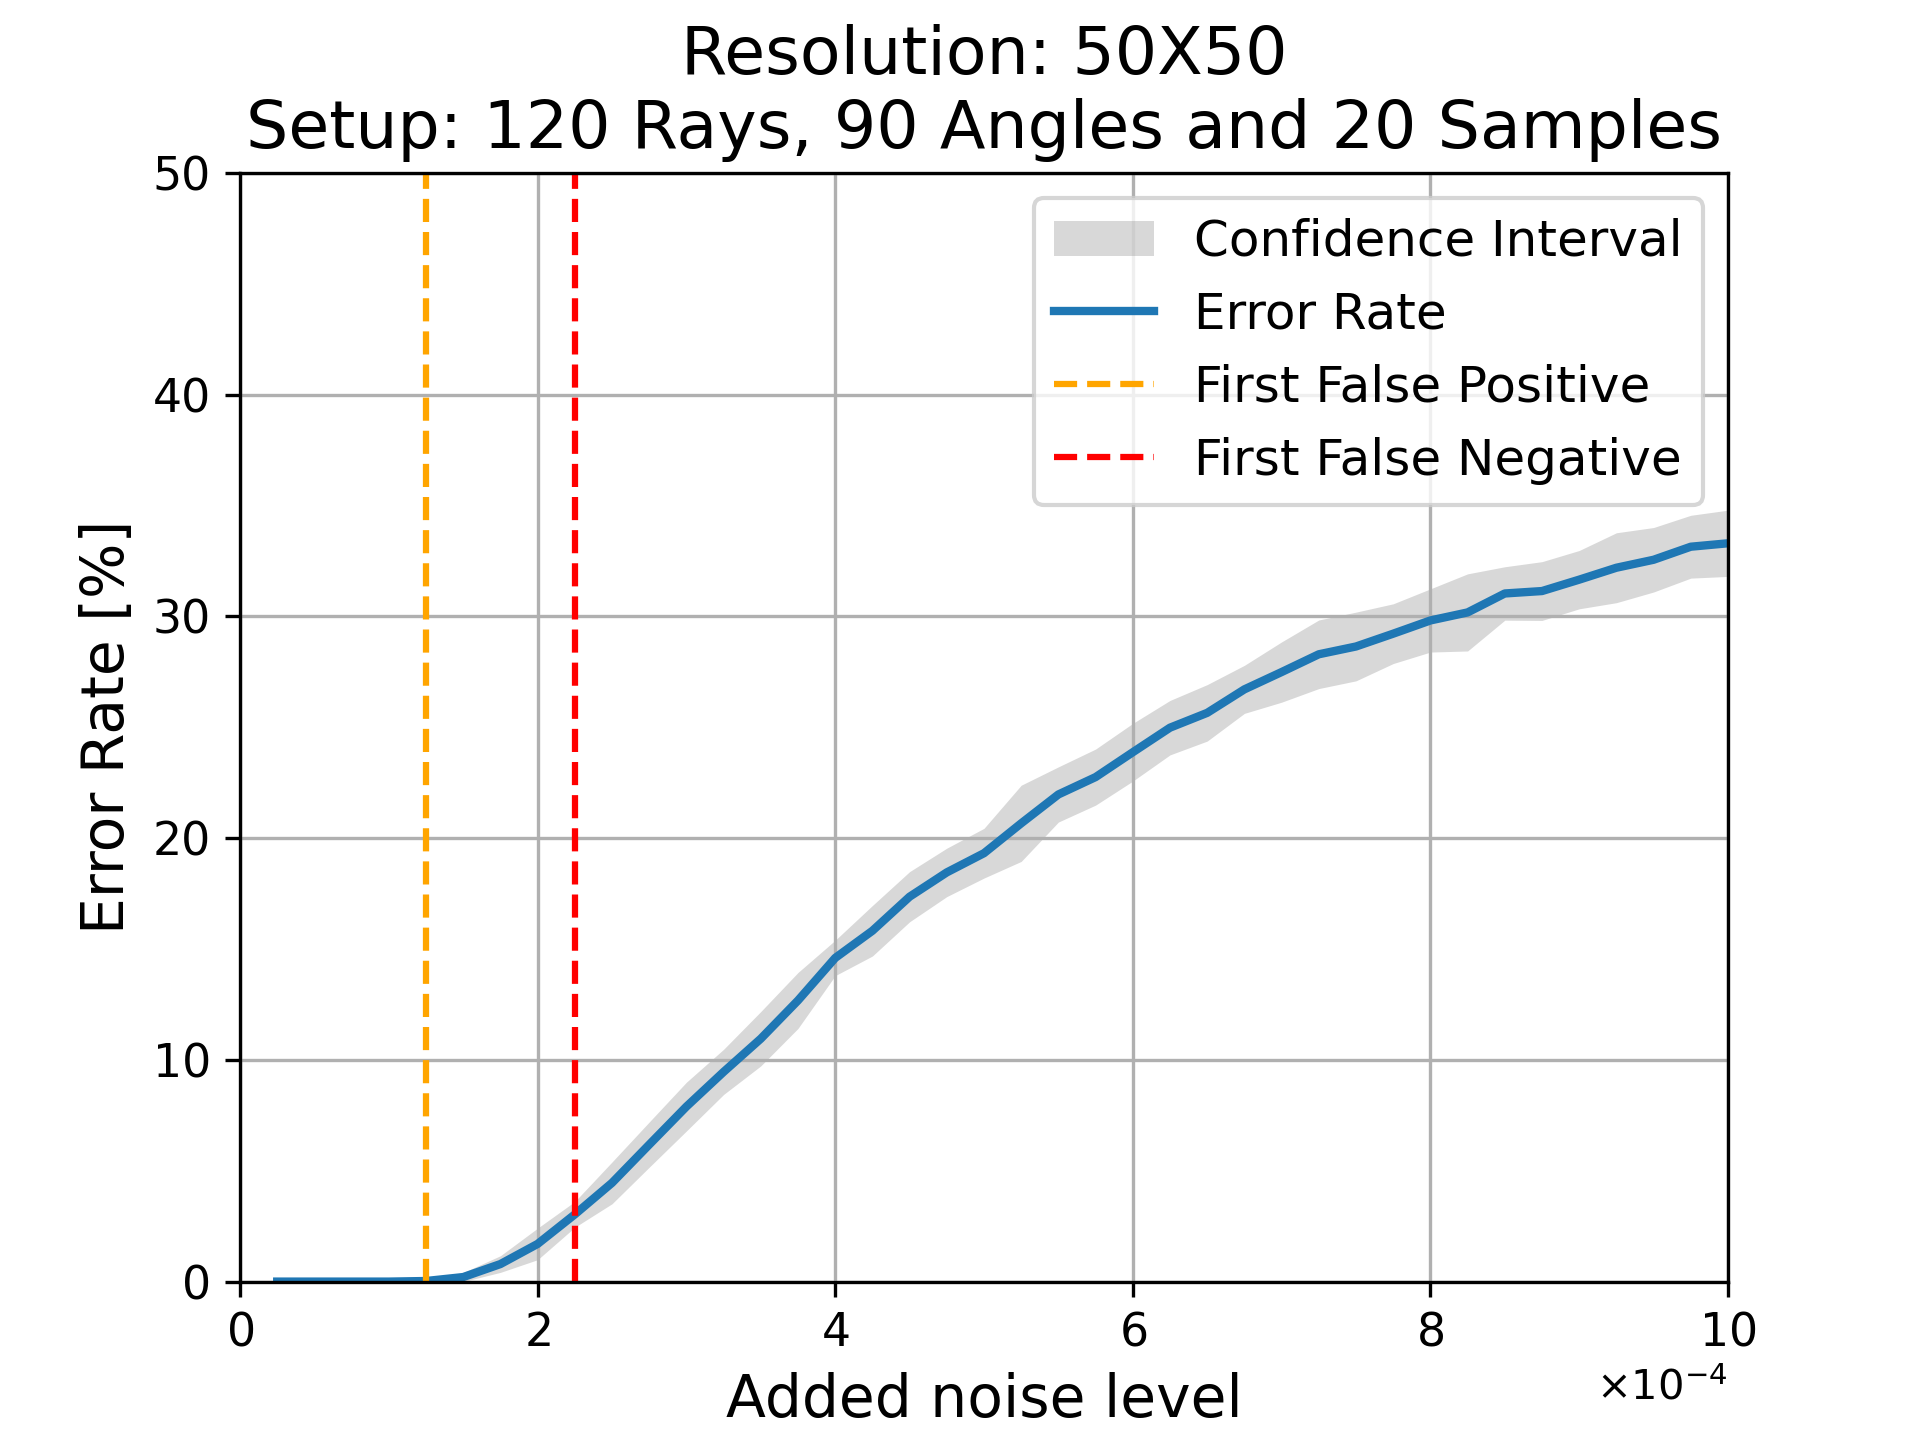
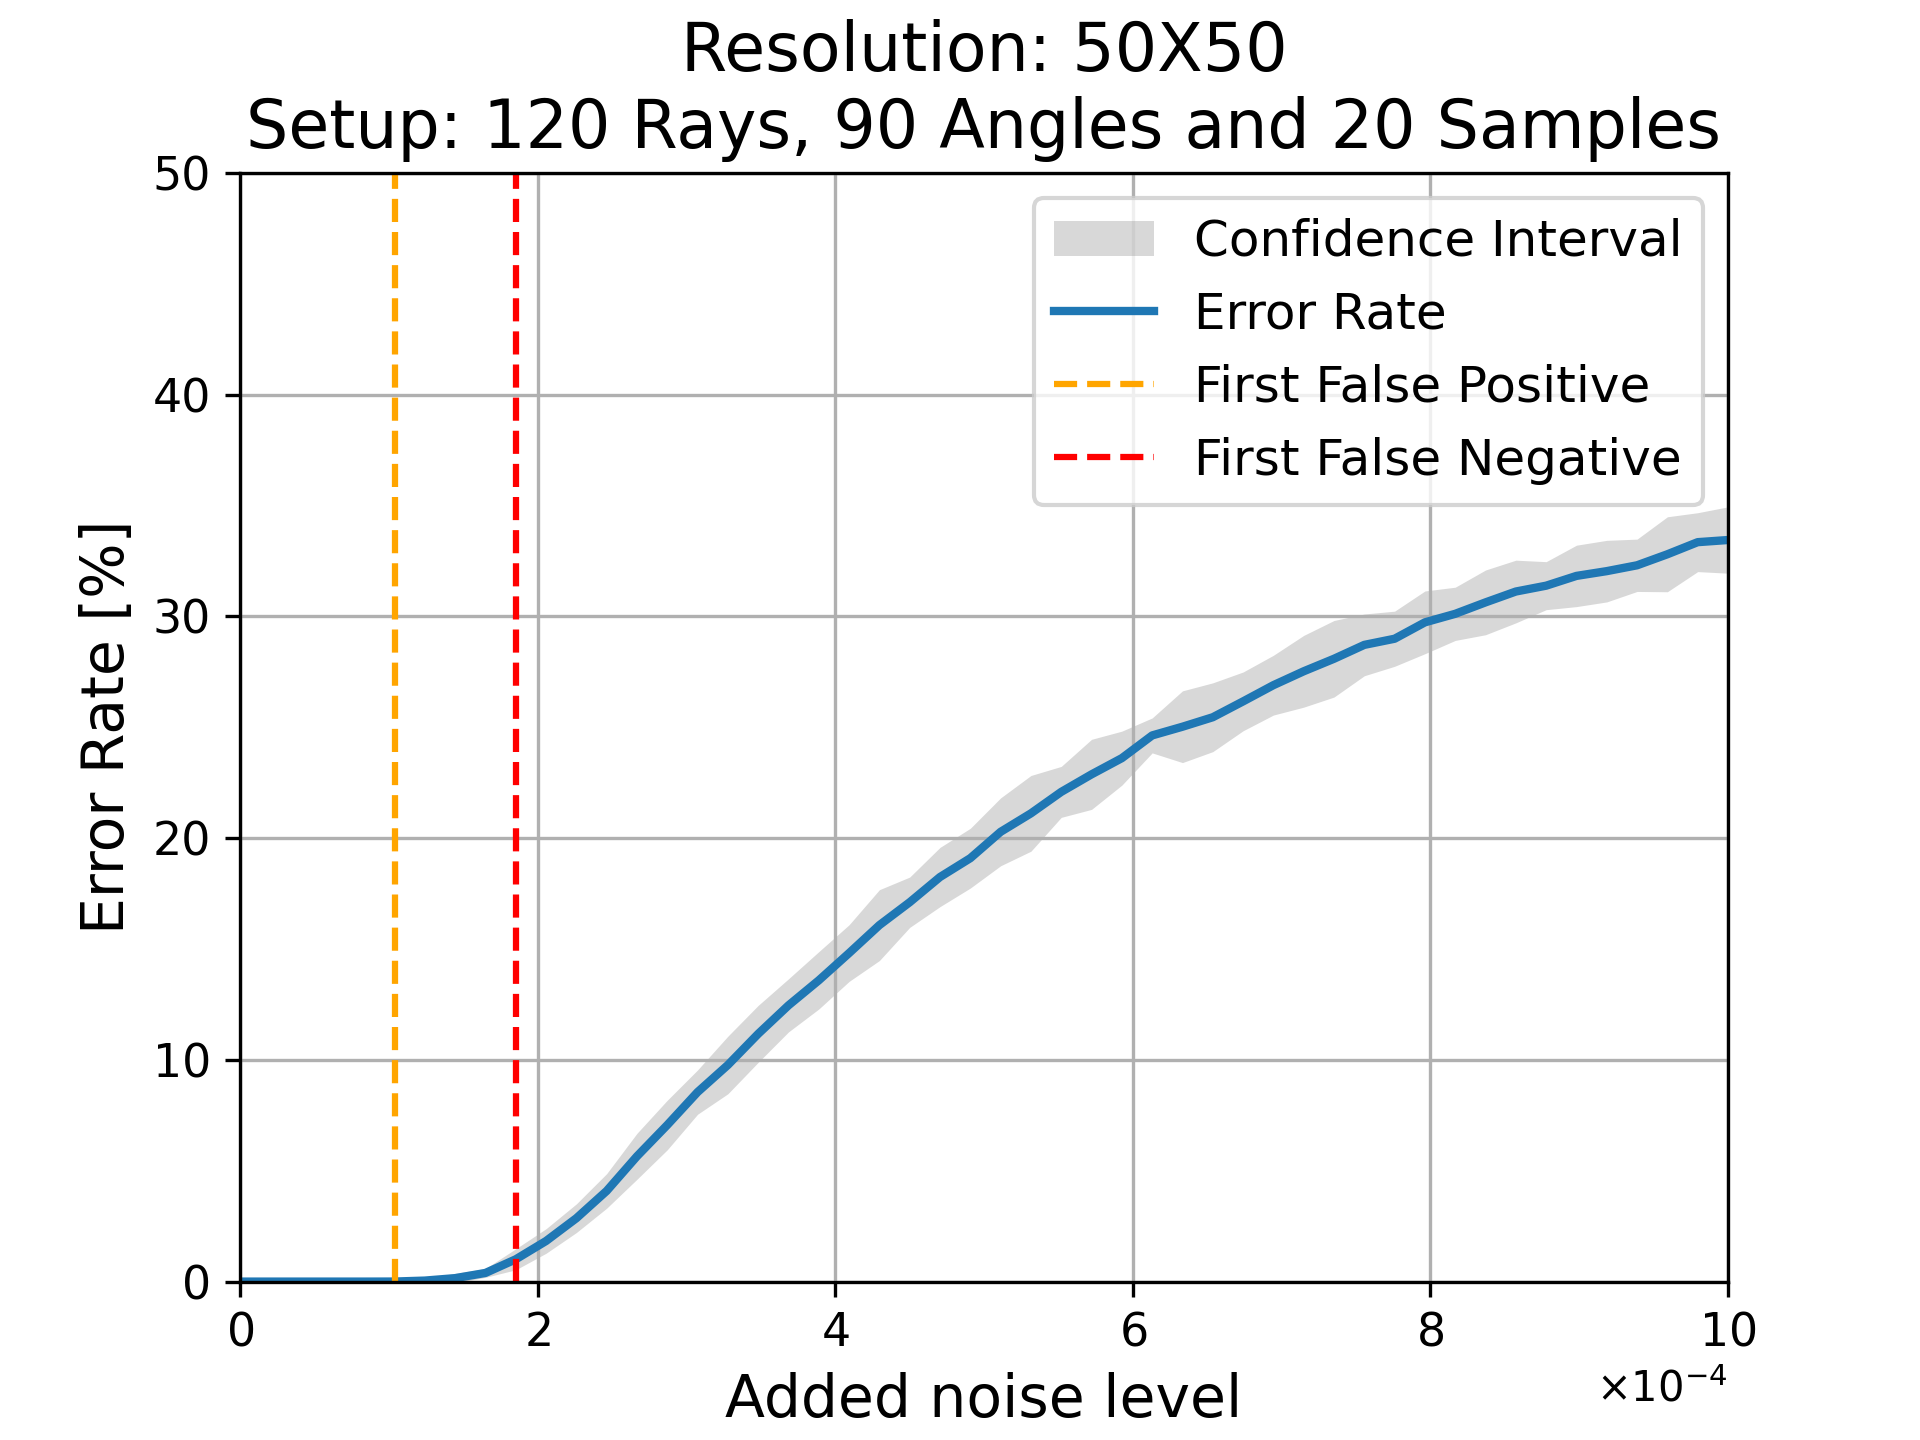
res100 redone

diff --git a/Exam_02526/Morten_func.py b/Exam_02526/Morten_func.py
@@ -10,7 +10,7 @@ import time
 import seaborn as sns
 
 
-def morten_func(angle_no, p, res, confidence = 2, sample_size=20, noise_limit = [1e-4, 1e-3], 
+def morten_func(angle_no, p, res, confidence = 2, sample_size=20, noise_limit = [1e-4, 1e-3], noise_size = 40,
                 class_errors=False):
         
     # Load the image with lead and steel shot
@@ -29,13 +29,13 @@ def morten_func(angle_no, p, res, confidence = 2, sample_size=20, noise_limit = 
     downsized_im = block_reduce(data, block_size=(downsizing, downsizing), func=np.mean) # downsample the image
     x = np.copy(downsized_im.flatten()) # flatten the attenuation constants
 
-    downsized_known_wood = block_reduce(known_wood, block_size=(downsizing, downsizing), func=np.mean) # downsample the image
-    downsized_known_iron = block_reduce(known_iron, block_size=(downsizing, downsizing), func=np.mean) # downsample the image
-    downsized_known_lead = block_reduce(known_lead, block_size=(downsizing, downsizing), func=np.mean) # downsample the image
+    downsized_known_wood = block_reduce(known_wood, block_size=downsizing, func=np.min).astype(int) # downsample the image
+    downsized_known_iron = block_reduce(known_iron, block_size=downsizing, func=np.max).astype(int) # downsample the image
+    downsized_known_lead = block_reduce(known_lead, block_size=downsizing, func=np.max).astype(int) # downsample the image
 
-    downsized_known_lead = np.ceil(downsized_known_lead).astype(int) # Any cell containing lead will be treated as lead
-    downsized_known_iron = np.ceil(downsized_known_iron).astype(int) # Any cell containing iron will be treated as iron
-    downsized_known_wood = np.floor(downsized_known_wood + 0.01).astype(int) # Any cell containing at least 99% wood will be treated as wood
+    # downsized_known_lead = np.ceil(downsized_known_lead).astype(int) # Any cell containing lead will be treated as lead
+    # downsized_known_iron = np.ceil(downsized_known_iron).astype(int) # Any cell containing iron will be treated as iron
+    # downsized_known_wood = np.floor(downsized_known_wood + 0.01).astype(int) # Any cell containing at least 99% wood will be treated as wood
 
     # Find the separators based on the anotted masks
     x_imShape = x.reshape(np.shape(downsized_im)) 
@@ -54,6 +54,7 @@ def morten_func(angle_no, p, res, confidence = 2, sample_size=20, noise_limit = 
     N_iron = np.sum(downsized_known_iron)
     N_wood = np.sum(downsized_known_wood)
 
+    
     print(f"the resolution of the image is {np.shape(downsized_im)}")
 
     # Initialize system matrix and stuff
@@ -66,7 +67,7 @@ def morten_func(angle_no, p, res, confidence = 2, sample_size=20, noise_limit = 
     # Load simulated forward projection 
     b = A @ x # Finding bj
     t0 = time.time()
-    error_list = np.linspace(noise_limit[0], noise_limit[1], 41)
+    error_list = np.linspace(noise_limit[0], noise_limit[1], noise_size)
     wood_errors = np.zeros([np.size(error_list),sample_size])
     failed_to_detect_wood = -1
     failed_to_detect_metal = -1
@@ -160,7 +161,7 @@ def morten_func(angle_no, p, res, confidence = 2, sample_size=20, noise_limit = 
             yticklabels=['wood', 'iron', 'lead']
         )
 
-
+        plt.savefig(f"Exam_02526/img/confusion{res}.png", dpi=300)
     plt.show()
 
 
@@ -175,11 +176,11 @@ def morten_func(angle_no, p, res, confidence = 2, sample_size=20, noise_limit = 
 if __name__ == '__main__':
     # Define the perbuations
     # noise = 8e-5
-    angle_no = 45
-    p = 55
-    res = 25 # The picture will be (res x res)
+    angle_no = 180
+    p = 225
+    res = 100 # The picture will be (res x res)
     sample_size = 20
     confidence = 2
-    morten_func(angle_no=angle_no, p=p, res=res, confidence=confidence, sample_size=sample_size, class_errors=True)
+    morten_func(angle_no=angle_no, p=p, res=res, confidence=confidence, sample_size=sample_size, class_errors=True, noise_limit=[2e-6,1e-3], noise_size=50)
 
 
